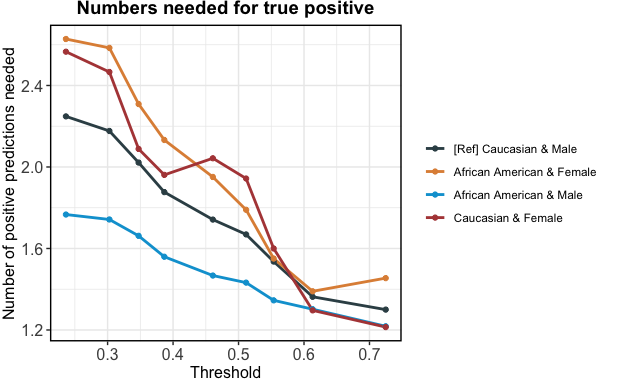
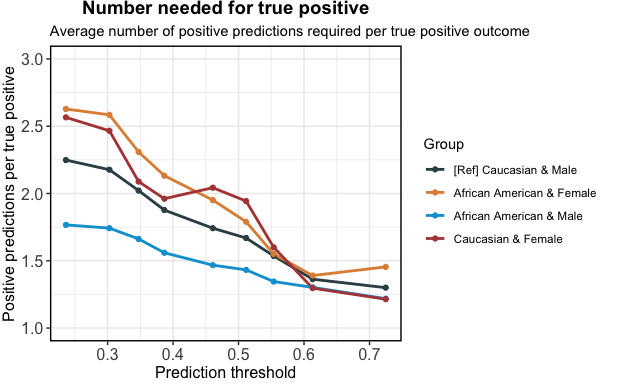
minor adjustment to figures

diff --git a/test_cases.md b/test_cases.md
@@ -134,13 +134,13 @@ x_plots$`Boxplot of predictions`
 ![](test_cases_files/figure-gfm/unnamed-chunk-4-4.png)<!-- -->
 
 ``` r
-x_plots$`Numbers needed for true positive`
+x_plots$`Number needed for true positive`
 ```
 
 ![](test_cases_files/figure-gfm/unnamed-chunk-4-5.png)<!-- -->
 
 ``` r
-x_plots$`Numbers needed for true negative`
+x_plots$`Number needed for true negative`
 ```
 
 ![](test_cases_files/figure-gfm/unnamed-chunk-4-6.png)<!-- -->
@@ -188,7 +188,7 @@ x_plots$`Boxplot of predictions` + ggsci::scale_color_npg()
 ![](test_cases_files/figure-gfm/unnamed-chunk-6-4.png)<!-- -->
 
 ``` r
-x_plots$`Numbers needed for true positive` + ggsci::scale_color_npg()
+x_plots$`Number needed for true positive` + ggsci::scale_color_npg()
 ## Scale for colour is already present.
 ## Adding another scale for colour, which will replace the existing scale.
 ```
@@ -196,7 +196,7 @@ x_plots$`Numbers needed for true positive` + ggsci::scale_color_npg()
 ![](test_cases_files/figure-gfm/unnamed-chunk-6-5.png)<!-- -->
 
 ``` r
-x_plots$`Numbers needed for true negative` + ggsci::scale_color_npg()
+x_plots$`Number needed for true negative` + ggsci::scale_color_npg()
 ## Scale for colour is already present.
 ## Adding another scale for colour, which will replace the existing scale.
 ```
@@ -295,7 +295,7 @@ x_plots2$`Boxplot of predictions`
 ![](test_cases_files/figure-gfm/unnamed-chunk-9-4.png)<!-- -->
 
 ``` r
-x_plots2$`Numbers needed for true positive`
+x_plots2$`Number needed for true positive`
 ## Warning: Removed 1 row containing missing values or values outside the scale range
 ## (`geom_line()`).
 ## Warning: Removed 1 row containing missing values or values outside the scale range
@@ -305,7 +305,7 @@ x_plots2$`Numbers needed for true positive`
 ![](test_cases_files/figure-gfm/unnamed-chunk-9-5.png)<!-- -->
 
 ``` r
-x_plots2$`Numbers needed for true negative`
+x_plots2$`Number needed for true negative`
 ```
 
 ![](test_cases_files/figure-gfm/unnamed-chunk-9-6.png)<!-- -->
@@ -402,7 +402,7 @@ x_plots3$`Boxplot of predictions`
 ![](test_cases_files/figure-gfm/unnamed-chunk-12-4.png)<!-- -->
 
 ``` r
-x_plots3$`Numbers needed for true positive`
+x_plots3$`Number needed for true positive`
 ## Warning: Removed 1 row containing missing values or values outside the scale range
 ## (`geom_line()`).
 ## Warning: Removed 1 row containing missing values or values outside the scale range
@@ -412,7 +412,7 @@ x_plots3$`Numbers needed for true positive`
 ![](test_cases_files/figure-gfm/unnamed-chunk-12-5.png)<!-- -->
 
 ``` r
-x_plots3$`Numbers needed for true negative`
+x_plots3$`Number needed for true negative`
 ```
 
 ![](test_cases_files/figure-gfm/unnamed-chunk-12-6.png)<!-- -->

diff --git a/README.md b/README.md
@@ -147,13 +147,13 @@ x_plots$`Boxplot of predictions`
 ![](README_files/figure-gfm/unnamed-chunk-8-1.png)<!-- -->
 
 ``` r
-x_plots$`Numbers needed for true positive`
+x_plots$`Number needed for true positive`
 ```
 
 ![](README_files/figure-gfm/unnamed-chunk-9-1.png)<!-- -->
 
 ``` r
-x_plots$`Numbers needed for true negative`
+x_plots$`Number needed for true negative`
 ```
 
 ![](README_files/figure-gfm/unnamed-chunk-10-1.png)<!-- -->
